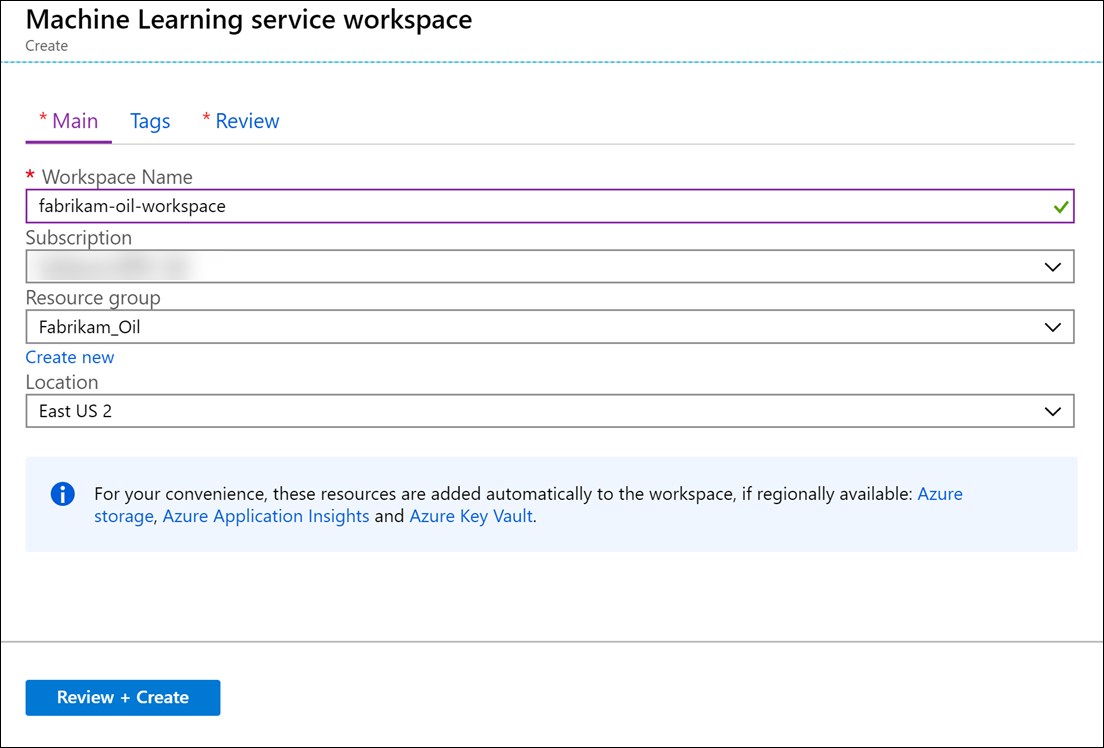
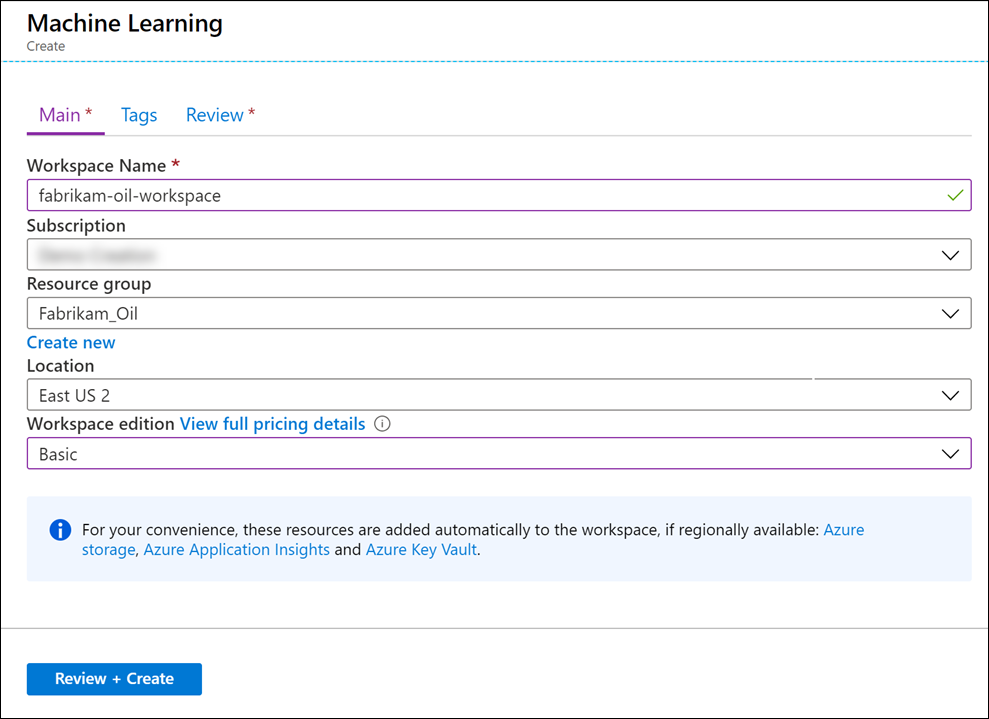
Updated before the HOL

diff --git a/Hands-on lab/Before the HOL - Predictive Maintenance for remote field devices.md b/Hands-on lab/Before the HOL - Predictive Maintenance for remote field devices.md
@@ -27,14 +27,14 @@ Microsoft and the trademarks listed at <https://www.microsoft.com/en-us/legal/in
 <!-- TOC -->
 
 - [Predictive Maintenance for remote field devices before the hands-on lab setup guide](#predictive-maintenance-for-remote-field-devices-before-the-hands-on-lab-setup-guide)
-    - [Requirements](#requirements)
-    - [Before the hands-on lab](#before-the-hands-on-lab)
-        - [Task 1: Provision a resource group](#task-1-provision-a-resource-group)
-        - [Task 2: Create an Azure Databricks service](#task-2-create-an-azure-databricks-service)
-        - [Task 3: Create Azure Databricks cluster](#task-3-create-azure-databricks-cluster)
-        - [Task 4: Import lab notebooks into Azure Databricks](#task-4-import-lab-notebooks-into-azure-databricks)
-        - [Task 5: Create Azure Machine Learning service workspace](#task-5-create-azure-machine-learning-service-workspace)
-        - [Task 6: Download the lab files](#task-6-download-the-lab-files)
+  - [Requirements](#requirements)
+  - [Before the hands-on lab](#before-the-hands-on-lab)
+    - [Task 1: Provision a resource group](#task-1-provision-a-resource-group)
+    - [Task 2: Create an Azure Databricks service](#task-2-create-an-azure-databricks-service)
+    - [Task 3: Create Azure Databricks cluster](#task-3-create-azure-databricks-cluster)
+    - [Task 4: Import lab notebooks into Azure Databricks](#task-4-import-lab-notebooks-into-azure-databricks)
+    - [Task 5: Create Azure Machine Learning service workspace](#task-5-create-azure-machine-learning-service-workspace)
+    - [Task 6: Download the lab files](#task-6-download-the-lab-files)
 
 <!-- /TOC -->
 
@@ -64,17 +64,21 @@ In this task, you will create an Azure resource group for the resources used thr
 
 1. Log into the [Azure Portal](https://portal.azure.com).
 
-2. In the left-hand menu, select **Resource Groups**.
+2. On the top-left corner of the portal, select the menu icon to display the menu.
 
-3. At the top of the screen press the **Add** button.
+    ![The portal menu icon is displayed.](media/portal-menu-icon.png "Menu icon")
+
+3. In the left-hand menu, select **Resource Groups**.
+
+4. At the top of the screen press the **Add** button.
 
    ![Add Resource Group Menu](media/add-resource-group-menu.png 'Resource Group Menu')
 
-4. Create a new resource group with the name **Fabrikam_Oil**, ensure the proper subscription and region nearest you are selected. Then select **Review + Create**.
+5. Create a new resource group with the name **Fabrikam_Oil**, ensure the proper subscription and region nearest you are selected. Then select **Review + Create**.
 
    ![Create Resource Group](media/create-resource-group.png 'Resource Group')
 
-5. On the Summary blade, select **Create** to provision your resource group.
+6. On the Summary blade, select **Create** to provision your resource group.
 
 ### Task 2: Create an Azure Databricks service
 
@@ -122,8 +126,7 @@ Azure Databricks is used to train and deploy a machine learning model that predi
    | Cluster name               | _enter `lab`_                                                                                |
    | Cluster Mode               | _select `Standard`_                                                                          |
    | Pool                       | _select `None`_                                                                              |
-   | Databricks Runtime Version | _select `Runtime 5.5 LTS (Scala 2.11, Spark 2.4.3)`_                                         |
-   | Python Version             | _enter `3`_                                                                                  |
+   | Databricks Runtime Version | _select `Runtime 6.2 (Scala 2.11, Spark 2.4.4)`_                                         |
    | Autopilot Options          | _uncheck `Enable autoscaling` and check `Terminate after...`, with a value of `120` minutes_ |
    | Worker Type                | _select `Standard_DS3_v2`_                                                                   |
    | Driver Type                | _select `Same as worker`_                                                                    |
@@ -153,13 +156,13 @@ In this task, you will import the Databricks notebooks into your workspace.
 
 1. Navigate to the [Azure portal](https://portal.azure.com).
 
-2. Select **+ Create a resource**, type in "machine learning" in the search field, then select **Machine Learning service workspace** from the results.
+2. Select **+ Create a resource**, type in "machine learning" in the search field, then select **Machine Learning** from the results.
 
-   ![Create a resource is highlighted and Machine Learning service workspace is selected.](media/azure-create-aml-search.png 'SQL Database')
+   ![Create a resource is highlighted and Machine Learning is selected.](media/azure-create-aml-search.png 'SQL Database')
 
 3. Select **Create** in the Azure Databricks details page.
 
-4. Within the **Azure Databricks Service** form, complete the following:
+4. Within the **Machine Learning** form, complete the following:
 
    | Field          | Value                                      |
    | -------------- | ------------------------------------------ |
@@ -167,6 +170,7 @@ In this task, you will import the Databricks notebooks into your workspace.
    | Subscription   | _select the appropriate subscription_      |
    | Resource Group | _select use existing, then `Fabrikam_Oil`_ |
    | Location       | _select the location nearest to you_       |
+   | Workspace edition | _select Basic_ |
 
    ![The form fields are completed with the previously described settings.](media/azure-create-aml.png 'Machine Learning service workspace')
 
